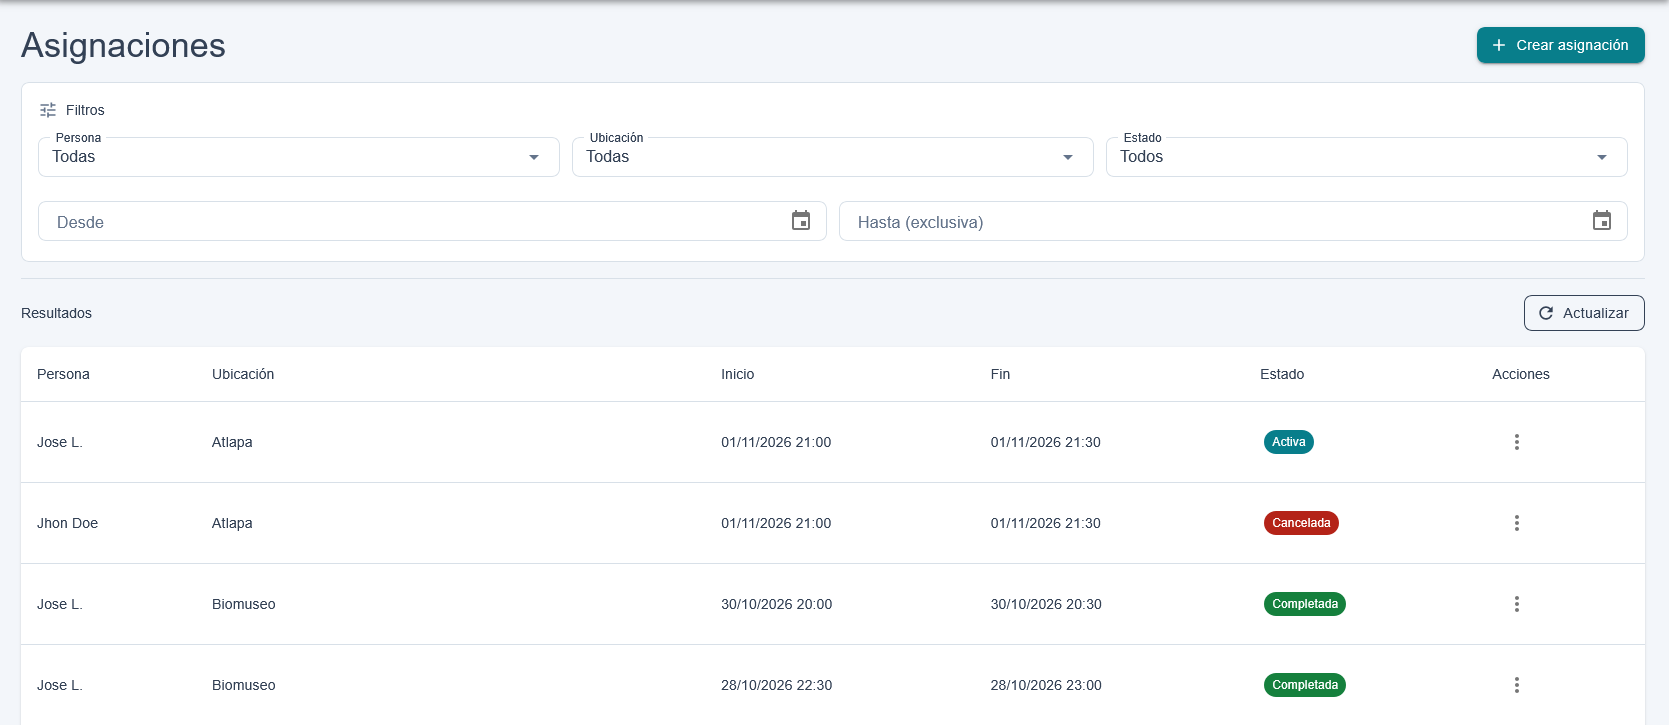
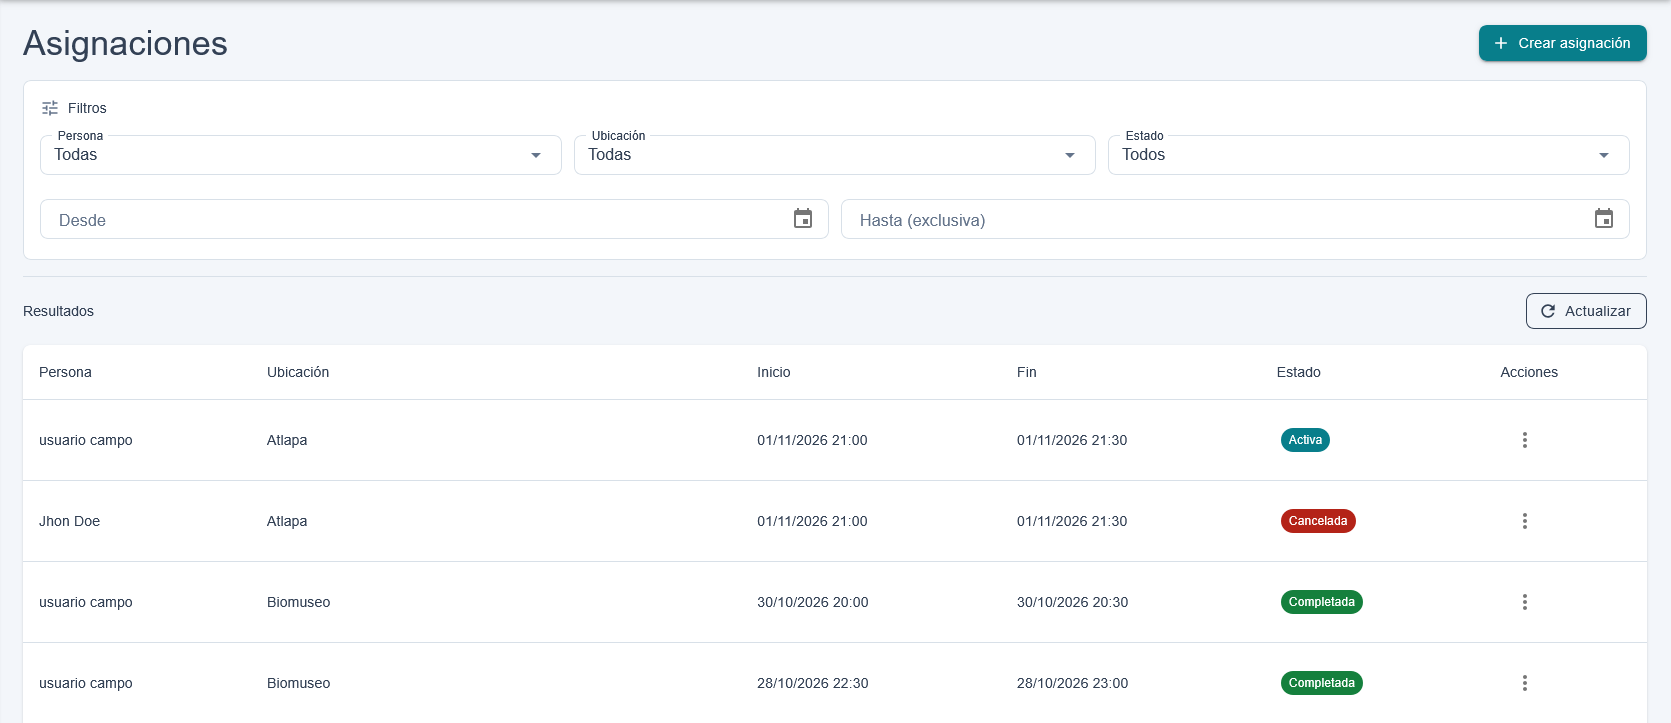
Refresh gallery screenshots and remove unused image assets

diff --git a/index.html b/index.html
@@ -122,7 +122,7 @@
                     </figure>
                     <figure class="screenshot-card">
                         <a class="screenshot-link" href="assets/images/assignments.png" aria-label="Ampliar: Gestión de asignaciones" aria-haspopup="dialog" data-screenshot>
-                            <img src="assets/images/assignments.png" alt="Listado de asignaciones de RadarWM para consultar y organizar las actividades del personal." width="1669" height="725" loading="lazy">
+                            <img src="assets/images/assignments.png" alt="Listado de asignaciones de RadarWM para consultar y organizar las actividades del personal." width="1671" height="723" loading="lazy">
                         </a>
                         <figcaption>Gestión de asignaciones</figcaption>
                     </figure>
